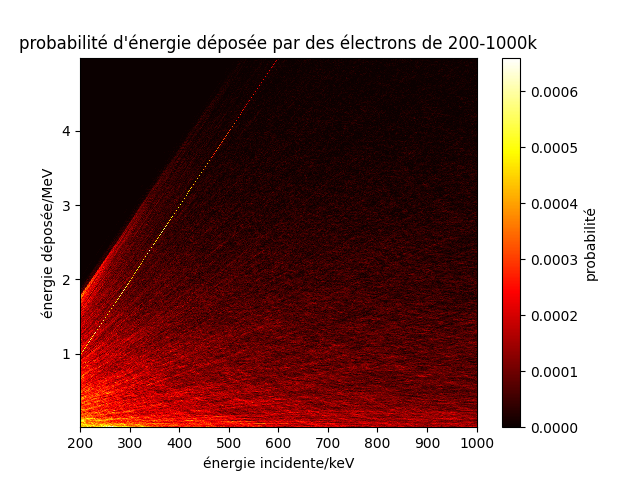
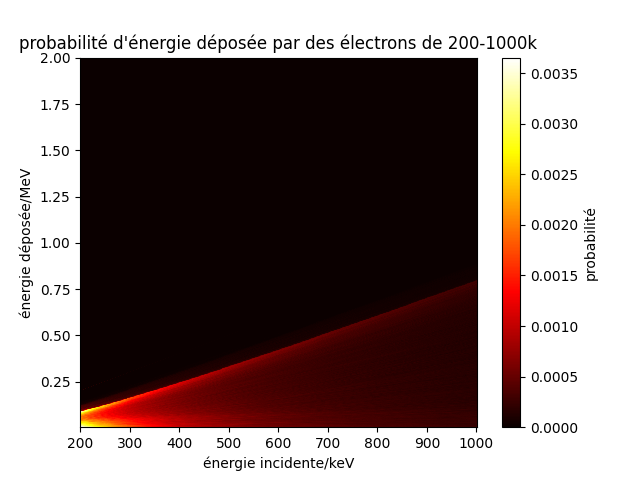
matrice visualisee

diff --git a/MCTDCRcode/MCNP-MATRIX/matrice.py b/MCTDCRcode/MCNP-MATRIX/matrice.py
@@ -168,7 +168,7 @@ def matrice_fig(matrice_p,start,end,e):
         zz = zz[2:,:]
         xx = xx[2:,:]
         yy = yy[2:,:]
-
+    print(xx.shape,yy.shape,zz.shape)
     h = plt.pcolormesh(xx,yy,zz,cmap = plt.cm.hot,vmin=0.)
     cb = plt.colorbar(h)
     cb.set_label("probabilité")
@@ -187,7 +187,7 @@ def matrice_fig(matrice_p,start,end,e):
     plt.title(title)
     name = "matrice/matricep_" + str(start) + "_" + str(end) + "k.png"
     plt.savefig(name)
-    return xx[0,:]
+    return 0
 #'''
 
 
@@ -238,7 +238,7 @@ e,matrice_p = creat_matrice(2,par='p')
 print(e[-1],matrice_p.shape,np.size(e))
 #ecri = ecrit_matrice(matrice_p,2,par='p') 
 #fig1 = matrice_fig(matrice_p,41,80,e)
-#fig2 = matrice_fig(matrice_p,200,1000,e)
+fig2 = matrice_fig(matrice_p,2000,5000,e)
 #print(fig2)
 
 '''
